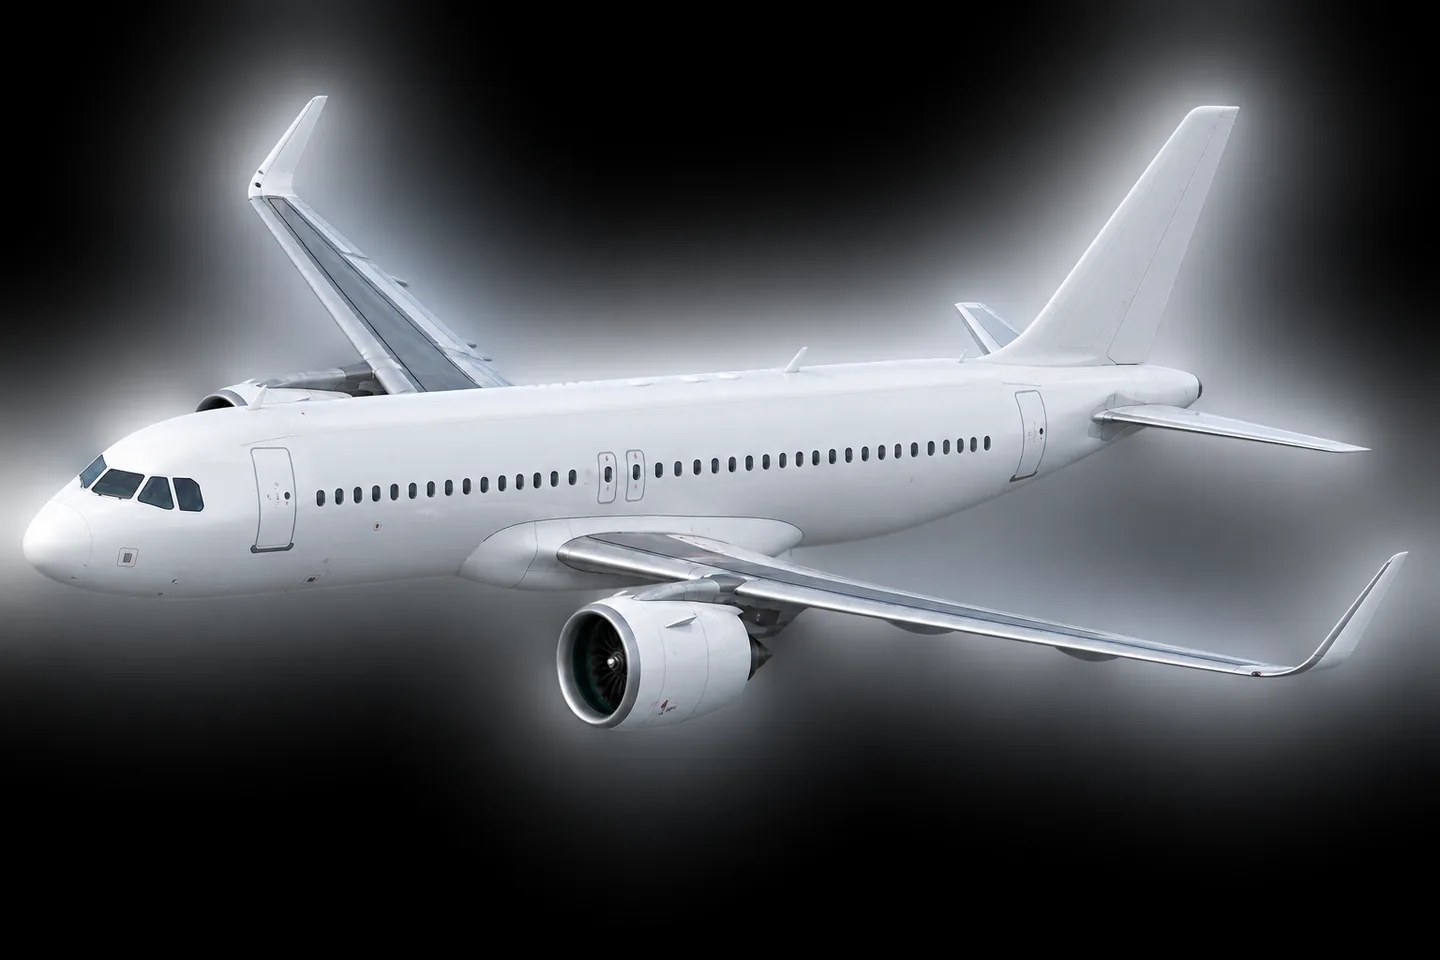
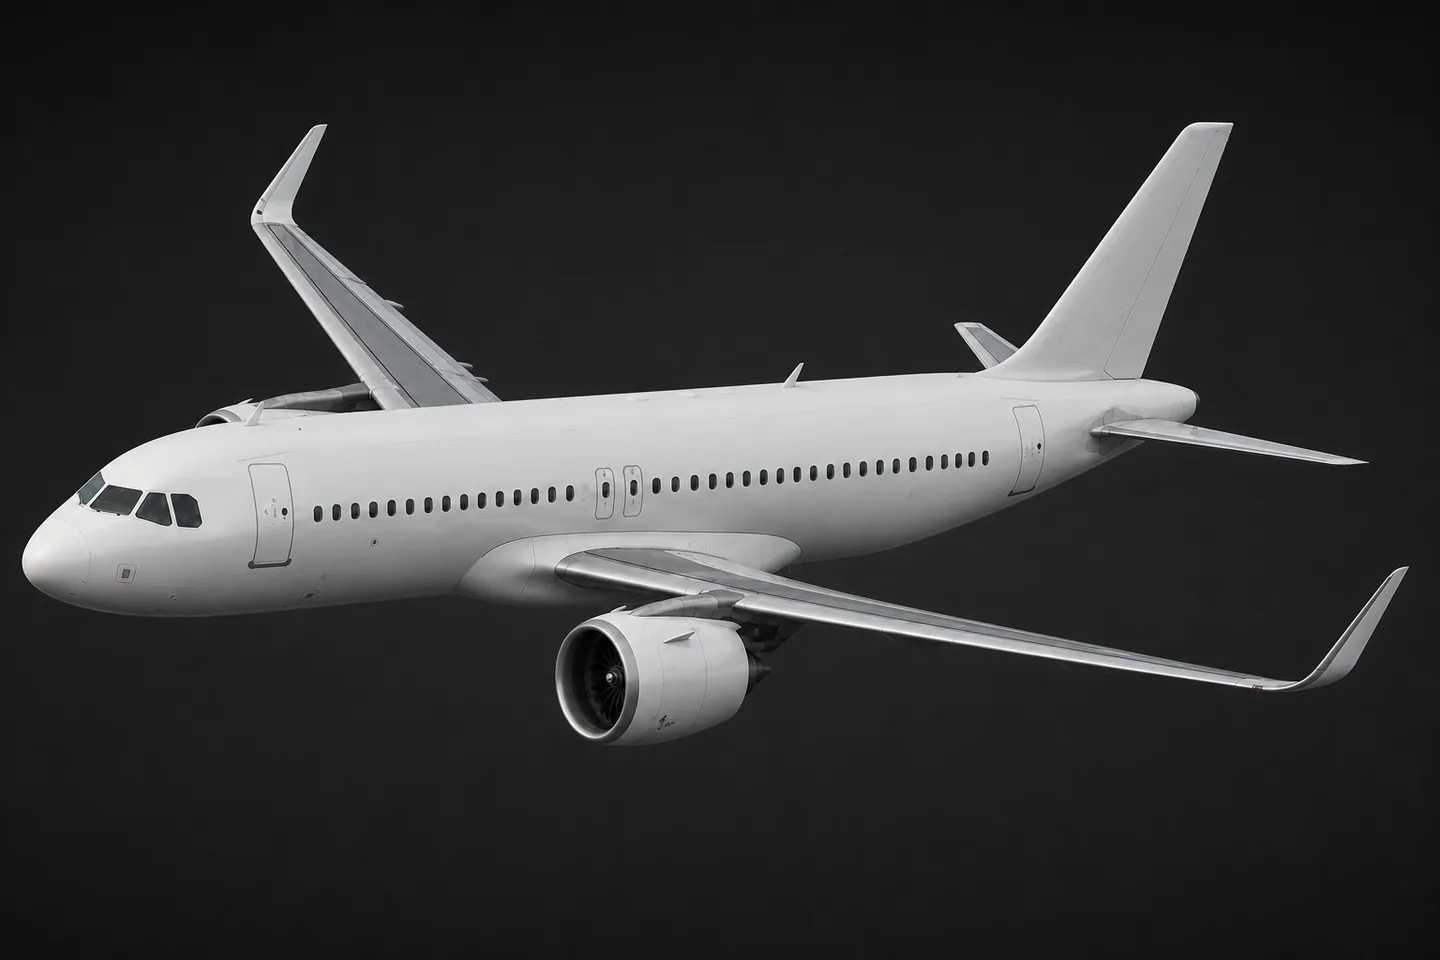
fix(fleet): keep aircraft detail in viewport

diff --git a/packages/web/src/shell/shell.css b/packages/web/src/shell/shell.css
@@ -3924,9 +3924,12 @@ body {
 .market-detail {
   position: sticky;
   top: var(--space-3);
-  max-height: calc(100vh - var(--strip-height) - 2 * var(--space-3));
-  min-height: 24rem;
+  max-height: calc(100vh - var(--strip-height) - var(--space-3) - var(--space-3));
+  max-height: calc(100dvh - var(--strip-height) - var(--space-3) - var(--space-3));
+  min-height: 0;
   overflow: auto;
+  overscroll-behavior: contain;
+  scrollbar-gutter: stable;
   border: 1px solid var(--border-strong);
   border-radius: var(--radius-md);
   background: var(--console-card-raised);
@@ -4327,8 +4330,11 @@ body {
     inset: 0;
     z-index: 30;
     width: min(34rem, 100%);
-    max-height: none;
-    min-height: 100%;
+    height: 100vh;
+    height: 100dvh;
+    max-height: 100vh;
+    max-height: 100dvh;
+    min-height: 0;
     margin-left: auto;
     border-radius: 0;
     background: var(--bg-raised);
